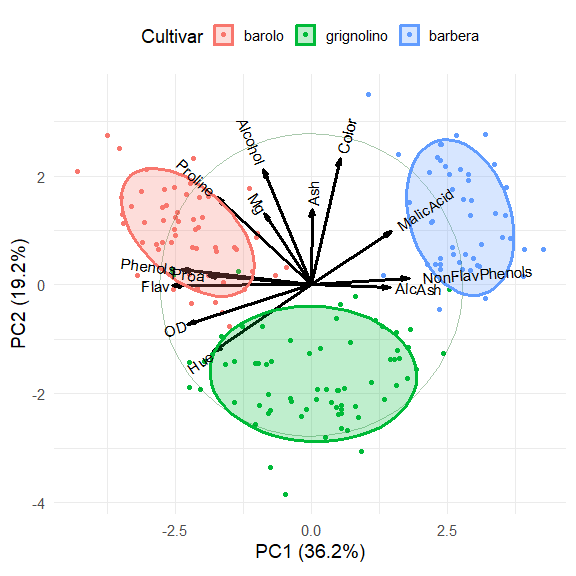
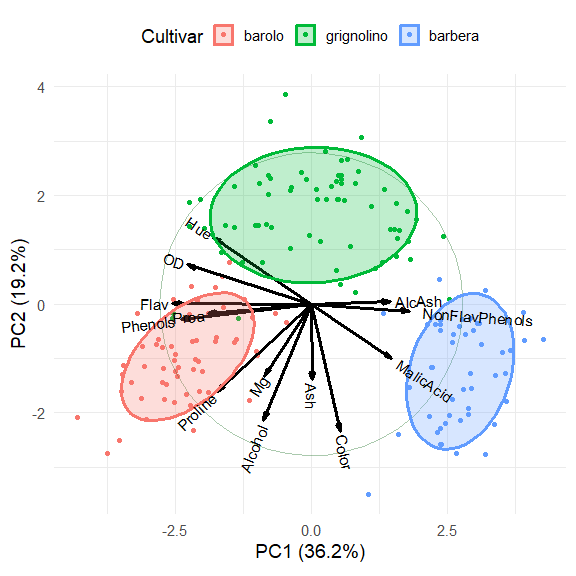
update README

diff --git a/README.md b/README.md
@@ -42,11 +42,10 @@ current version, now on CRAN, will be the locus of further development.
 You can install the latest CRAN version, or install from GitHub as shown
 below.
 
-|                 |                                                               |
-|-----------------|---------------------------------------------------------------|
-| CRAN version    | `install.packages("ggbiplot")`                                |
-| GitHub `master` | `remotes::install_github("friendly/ggbiplot")`                |
-| GitHub `devel`  | `remotes::install_github("friendly/ggbiplot", ref = "devel")` |
+|                 |                                                |
+|-----------------|------------------------------------------------|
+| CRAN version    | `install.packages("ggbiplot")`                 |
+| GitHub `master` | `remotes::install_github("friendly/ggbiplot")` |
 
 ## Examples
 
@@ -100,13 +99,13 @@ crime.pca
 #> 
 #> Rotation (n x k) = (7 x 7):
 #>             PC1     PC2     PC3     PC4     PC5     PC6     PC7
-#> murder   -0.300 -0.6292  0.1782 -0.2321  0.5381  0.2591  0.2676
-#> rape     -0.432 -0.1694 -0.2442  0.0622  0.1885 -0.7733 -0.2965
-#> robbery  -0.397  0.0422  0.4959 -0.5580 -0.5200 -0.1144 -0.0039
-#> assault  -0.397 -0.3435 -0.0695  0.6298 -0.5067  0.1724  0.1917
-#> burglary -0.440  0.2033 -0.2099 -0.0576  0.1010  0.5360 -0.6481
-#> larceny  -0.357  0.4023 -0.5392 -0.2349  0.0301  0.0394  0.6017
-#> auto     -0.295  0.5024  0.5684  0.4192  0.3698 -0.0573  0.1470
+#> murder   -0.300 -0.6292 -0.1782  0.2321  0.5381  0.2591  0.2676
+#> rape     -0.432 -0.1694  0.2442 -0.0622  0.1885 -0.7733 -0.2965
+#> robbery  -0.397  0.0422 -0.4959  0.5580 -0.5200 -0.1144 -0.0039
+#> assault  -0.397 -0.3435  0.0695 -0.6298 -0.5067  0.1724  0.1917
+#> burglary -0.440  0.2033  0.2099  0.0576  0.1010  0.5360 -0.6481
+#> larceny  -0.357  0.4023  0.5392  0.2349  0.0301  0.0394  0.6017
+#> auto     -0.295  0.5024 -0.5684 -0.4192  0.3698 -0.0573  0.1470
 ```
 
 The biplot, using default scaling (standardized components), and
@@ -181,10 +180,6 @@ What can we understand about the differences among these wines from a
 biplot?
 
 ``` r
-library(ggbiplot)
-library(ggplot2)
-library(dplyr)
-
 data(wine)
 wine.pca <- prcomp(wine, scale. = TRUE)
 ggscreeplot(wine.pca) 
